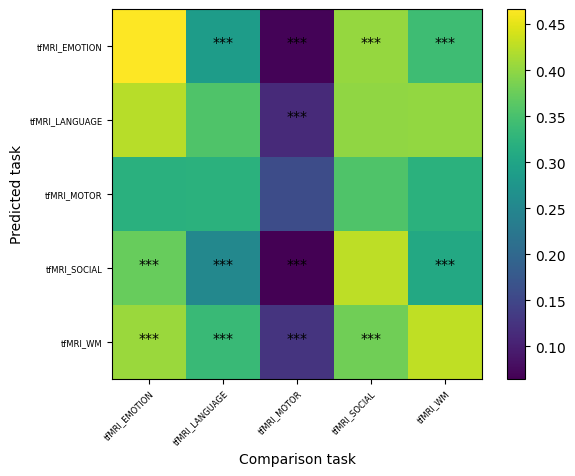
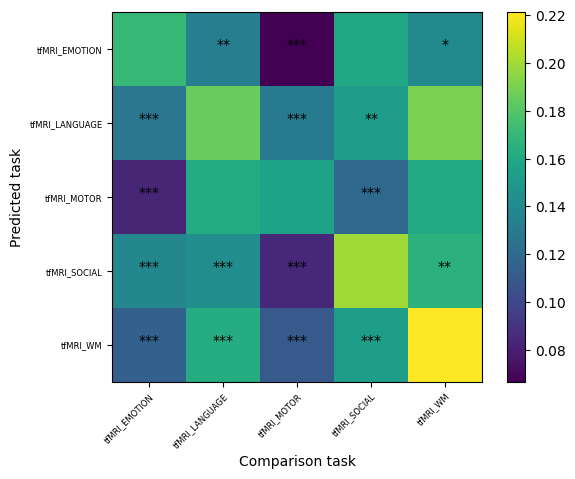
add files

diff --git a/classifier_check_res.py b/classifier_check_res.py
@@ -83,12 +83,13 @@ def bootstrap_compare_two_groups(group1, group2):
 if infants == 1:
     nsub = 183
     folder = f'/home/{os.getlogin()}/final_parameters_classifier_results_alpha-{alpha}_l1ratio-{l1_ratio}_infants'
+    print(f'this is folder ******************************** {folder}')
     folder_results_classifier = f'final_parameters_classifier_results_alpha-{alpha}_l1ratio-{l1_ratio}_infants'
     os.makedirs(os.path.join(folder, folder_results_classifier), exist_ok=True) # Make folder if it doesn't already exist
 
 else:
     nsub = 155
-    folder = f'final_parameters_classifier_results_alpha-{alpha}_l1ratio-{l1_ratio}'
+    folder = f'/home/chiaracaldinelli/final_parameters_classifier_results_alpha-{alpha}_l1ratio-{l1_ratio}'
     folder_results_classifier = f'final_parameters_classifier_results_alpha-{alpha}_l1ratio-{l1_ratio}'
     os.makedirs(os.path.join(folder, folder_results_classifier), exist_ok=True) # Make folder if it doesn't already exist
 
@@ -135,8 +136,13 @@ for hemiind, hemi in enumerate(['R', 'L']):
     # plt.ylim(-0.20, 0.40)
     x = np.arange(0, 10, 0.1)
 
-    plt.savefig(os.path.join(folder, f'summarise_res_classifier_pearson_{hemi}.png'), bbox_inches='tight')
-    print(f'Figure saved as summarise_res_pearson_{hemi}.png')
+    if infants == 1:
+        
+        plt.savefig(os.path.join(folder, f'summarise_res_classifier_infants_pearson_{hemi}.png'), bbox_inches='tight')
+        print(f'Figure saved as summarise_res_infants_pearson_{hemi}.png')
+    else:
+        plt.savefig(os.path.join(folder, f'summarise_res_classifier_pearson_{hemi}.png'), bbox_inches='tight')
+        print(f'Figure saved as summarise_res_pearson_{hemi}.png')
 
 
     table = pd.pivot_table(df, values=['pearson', 'score'], index=['hemi', 'task'],
@@ -280,8 +286,11 @@ for hemiind, hemi in enumerate(['R', 'L']):
             if np.mean(diff)<0:
                 pstr=''
             plt.annotate(pstr,(xc,yc), ha='center')
-
-    plt.savefig((f'matrix_{hemi}_hemisphere.png'), bbox_inches='tight')
+    if infants == 1:
+        plt.savefig((f'/home/chiaracaldinelli/smartontheinside/smartontheinside/matrix_{hemi}_hemisphere_infants.png'), bbox_inches='tight')
+    else:
+        plt.savefig((f'/home/chiaracaldinelli/smartontheinside/smartontheinside/matrix_{hemi}_hemisphere.png'), bbox_inches='tight')
+    
     plt.close()
 
 

diff --git a/classifier.py b/classifier.py
@@ -22,7 +22,7 @@ alpha = 0.4
 l1_ratio = 0.6
 
 # 1 for infant analysis, 0 for adult analysis
-infants = 1
+infants = 0
 
 ######### CHOOSE THESE OPTIONS:
 
